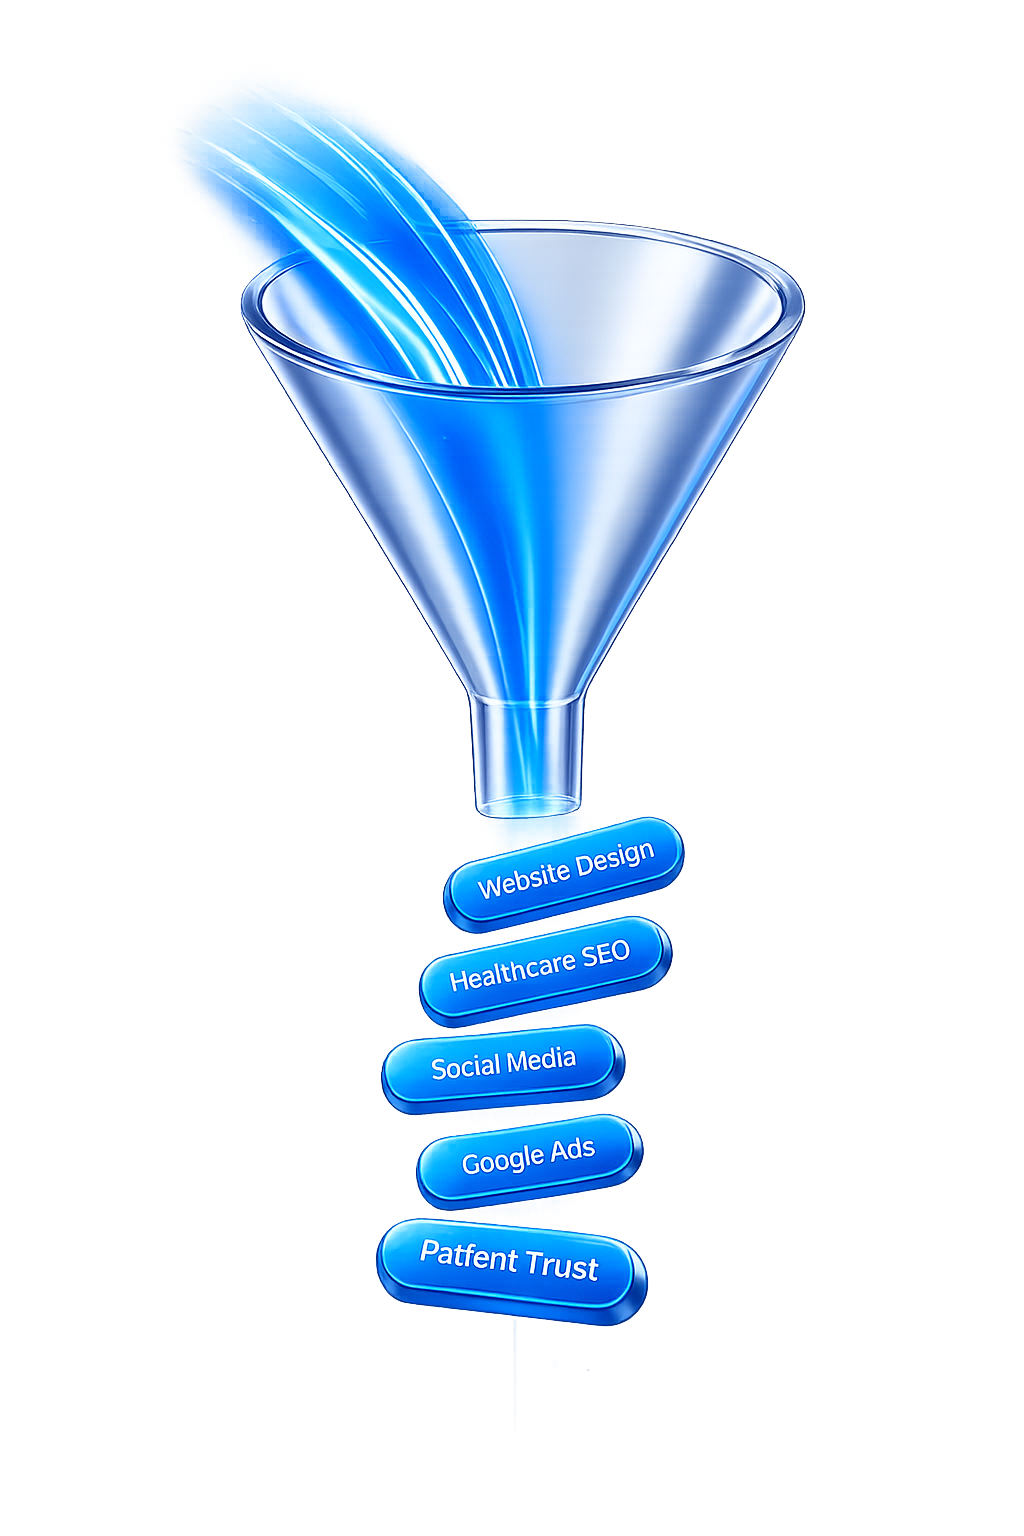
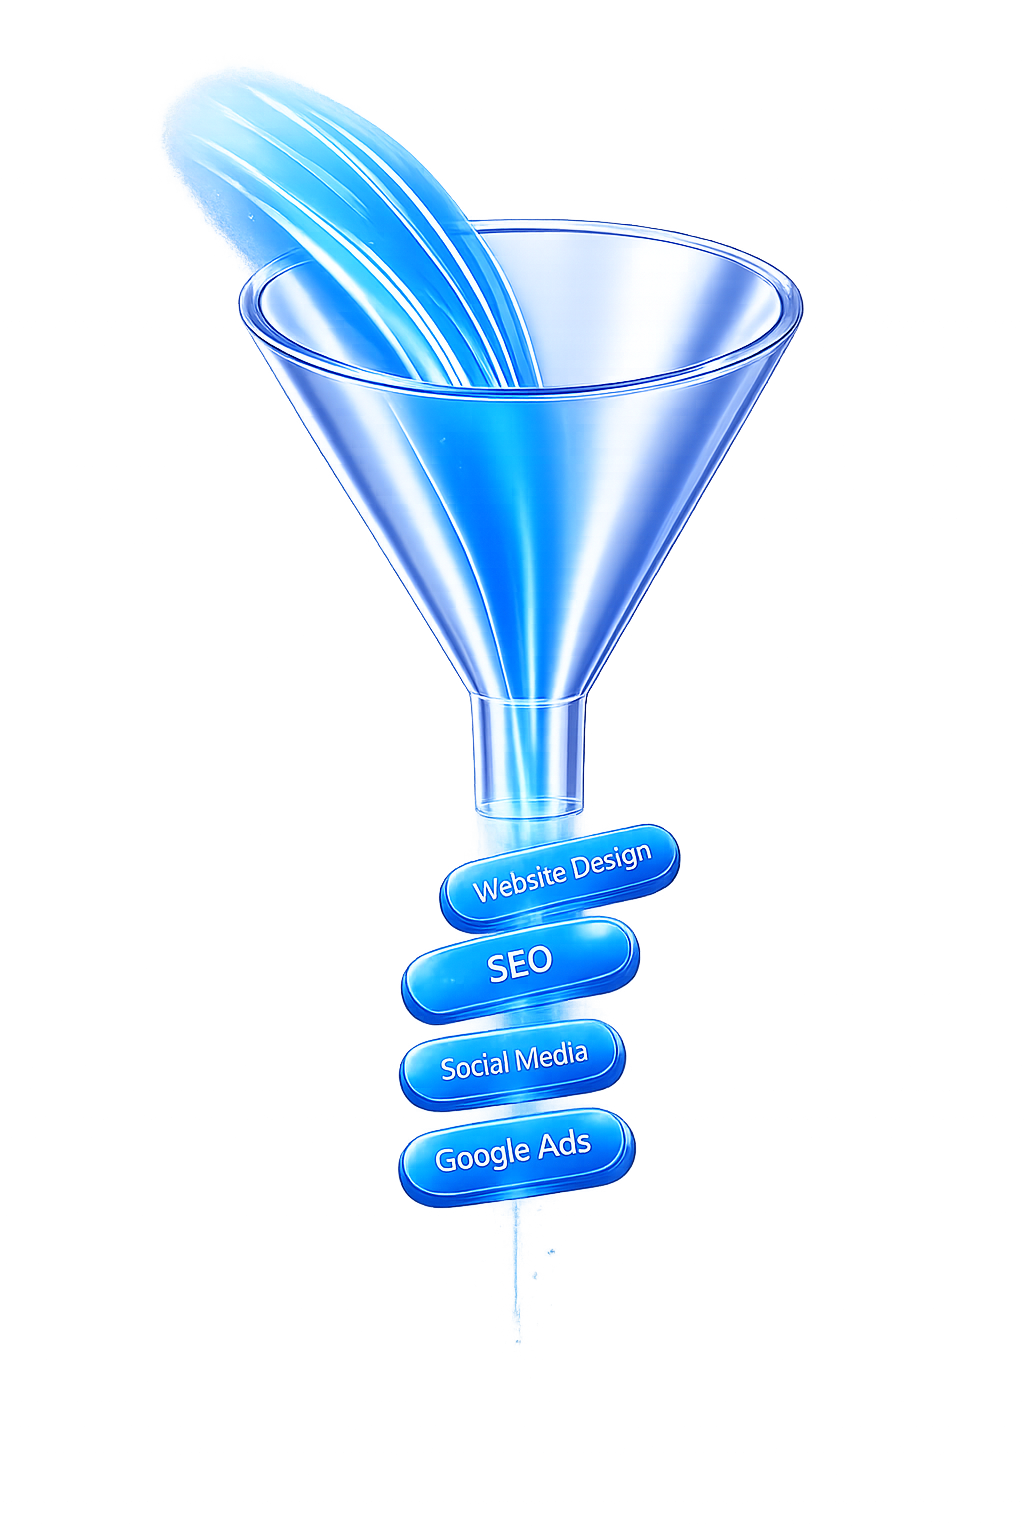
Add new team images and update StoryTimeline and IndustryHero components for improved layout and responsiveness

Changed region(s): [[0.1562, 0.0312, 0.7812, 0.875]]

diff --git a/src/components/industries/medical/IndustryHero.tsx b/src/components/industries/medical/IndustryHero.tsx
@@ -18,7 +18,7 @@ type IndustryHeroProps = {
 
 export default function IndustryHero({ data }: IndustryHeroProps) {
   return (
-    <section className="relative overflow-hidden bg-white pt-48 pb-8">
+    <section className="relative overflow-hidden bg-white pt-[clamp(5.75rem,7vw,7rem)] pb-[clamp(2rem,4vw,3.5rem)]">
       {/* Grid Background */}
       <div
         className="absolute inset-0 opacity-[0.04]"
@@ -35,7 +35,7 @@ export default function IndustryHero({ data }: IndustryHeroProps) {
       <div className="absolute left-1/2 top-20 h-[700px] w-[800px] -translate-x-1/2 rounded-full bg-blue-500/10 blur-[150px]" />
 
       <div className="container relative mx-auto max-w-7xl px-6">
-        <div className="grid min-h-[78vh] items-center gap-8 lg:grid-cols-2">
+        <div className="grid min-h-[clamp(580px,68vh,720px)] items-center gap-8 lg:grid-cols-2">
 
           {/* LEFT CONTENT */}
           <div className="max-w-[650px]">
@@ -80,7 +80,7 @@ export default function IndustryHero({ data }: IndustryHeroProps) {
 
           {/* RIGHT IMAGE */}
           <div className="relative flex justify-center lg:justify-end">
-            <div className="relative w-full max-w-[900px]">
+            <div className="relative h-[clamp(340px,52vw,720px)] w-full max-w-[1000px]">
 
               {/* Background Glow Behind Doctor */}
               <div className="absolute inset-0 rounded-full bg-gradient-to-r from-blue-100/40 via-cyan-100/30 to-transparent blur-3xl" />
@@ -90,10 +90,10 @@ export default function IndustryHero({ data }: IndustryHeroProps) {
                 <Image
                   src={data.image.src}
                   alt={data.image.alt}
-                  width={1400}
-                  height={1400}
+                  fill
                   priority
-                  className="relative z-10 h-auto w-[135%] max-w-none object-contain lg:-mt-8"
+                  sizes="(min-width: 1024px) 50vw, 100vw"
+                  className="relative z-10 object-contain object-center scale-[1.08] lg:scale-[1.2]"
                 />
               ) : null}
             </div>

diff --git a/src/components/Our-story/StoryTimeline.tsx b/src/components/Our-story/StoryTimeline.tsx
@@ -93,9 +93,13 @@ type FlatChapter = {
   stat1Label: string; stat1Value: string; stat2Label: string; stat2Value: string; stat3Label: string; stat3Value: string;
 };
 
+function getChapterYearValue(year: string) {
+  return Number(year.match(/\d{4}/)?.[0] ?? 0);
+}
+
 export default function StoryTimeline({ content: raw = {} }: { content?: Record<string, unknown> }) {
   const content = raw as { chapters?: FlatChapter[] };
-  const chapters = content.chapters?.length
+  const chaptersSource = content.chapters?.length
     ? content.chapters.map((ch, i) => {
         const v = DEFAULT_CHAPTERS[i % DEFAULT_CHAPTERS.length];
         return {
@@ -116,6 +120,9 @@ export default function StoryTimeline({ content: raw = {} }: { content?: Record<
         };
       })
     : DEFAULT_CHAPTERS;
+  const chapters = [...chaptersSource].sort(
+    (a, b) => getChapterYearValue(b.year) - getChapterYearValue(a.year)
+  );
 
   const [activeIndex, setActiveIndex] = useState(0);
   const activeChapter = chapters[activeIndex] ?? chapters[0];